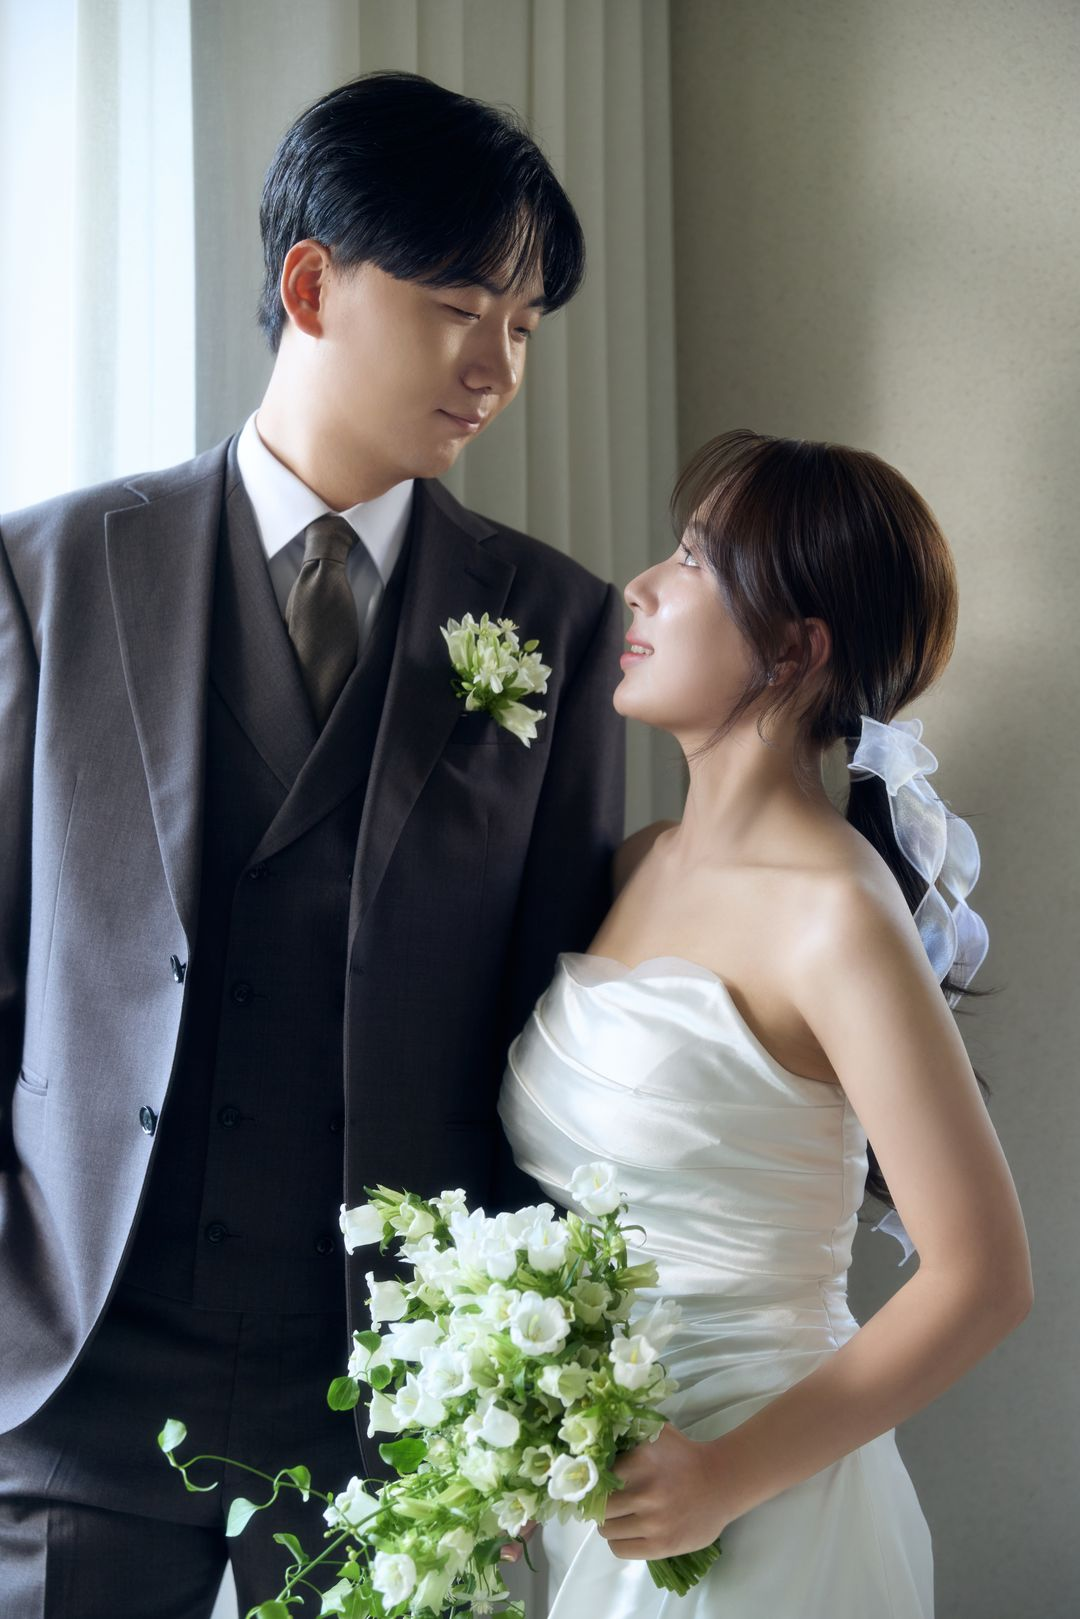
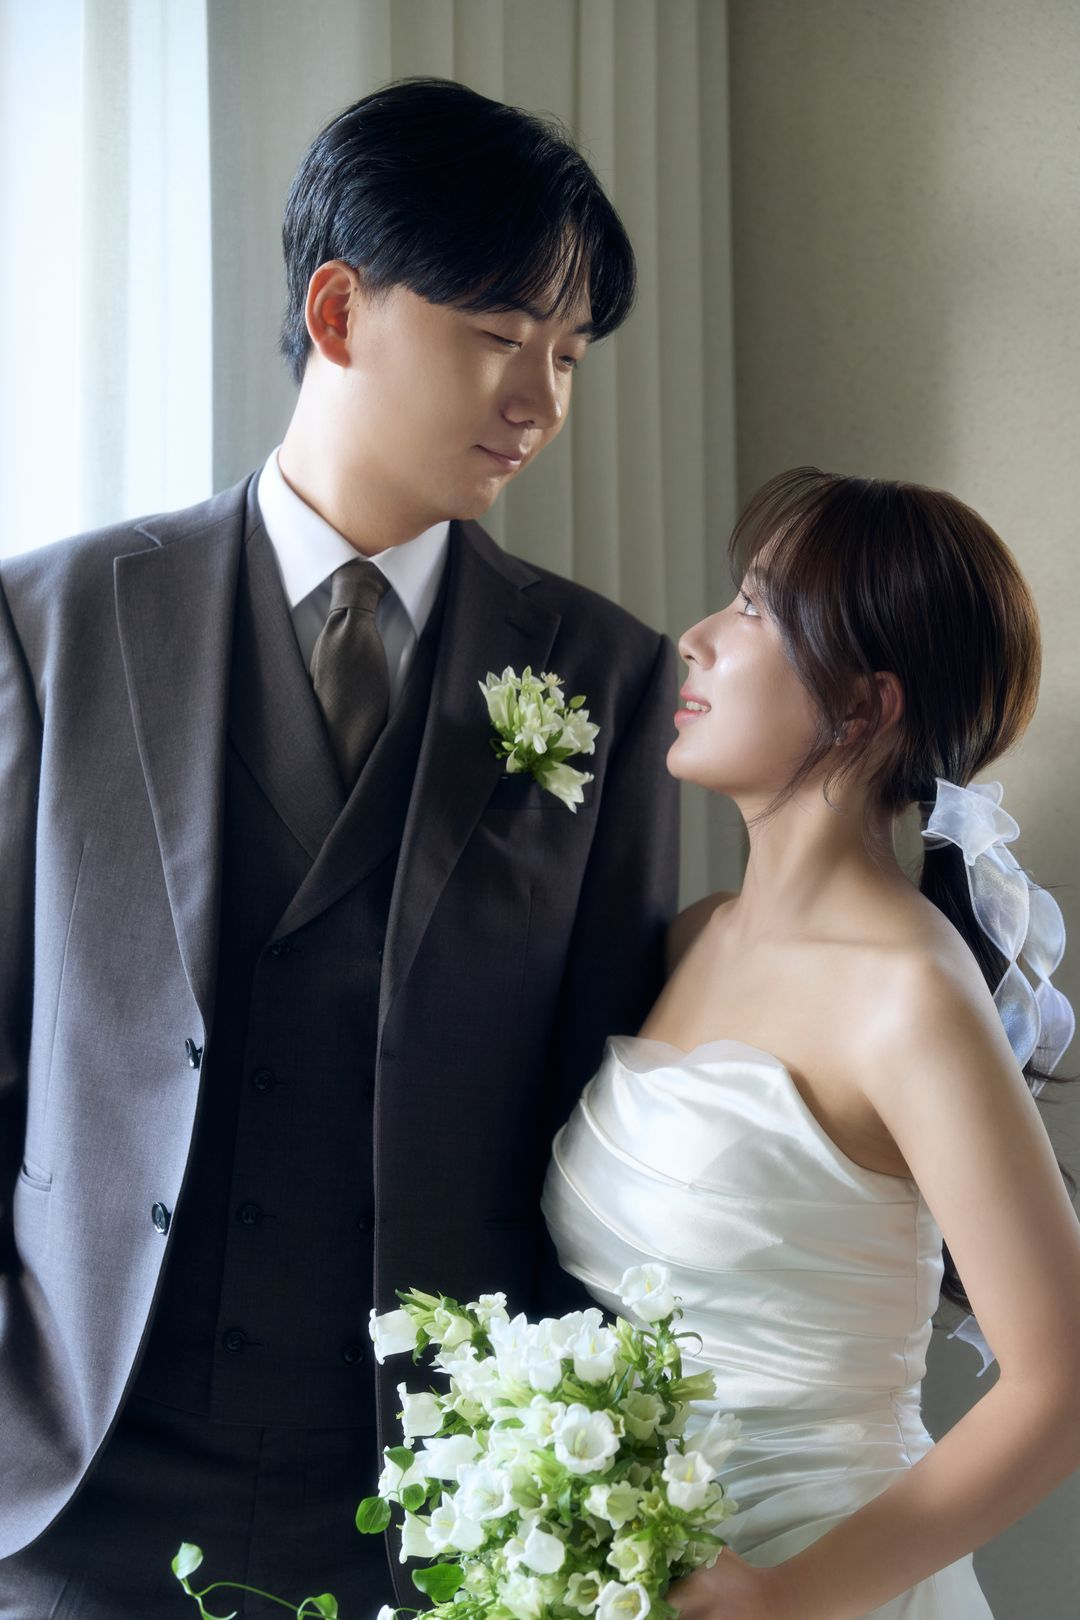
feat: 신랑/신부 프로필 사진 적용 + 갤러리 기존 첫 사진 삭제 + 9732 구도 보정
- 프로필: 9905(신랑)·10043(신부) 얼굴 정사각 크롭(원형 틀), 누르면 같은 원본 전체 사진
- 갤러리: 기존 첫 사진(gallery-2.jpg) 삭제
- gallery-9732: 오른쪽 8% 크롭으로 두 사람을 가운데로

diff --git a/assets/js/config.js b/assets/js/config.js
@@ -109,18 +109,18 @@ window.WEDDING = {
     alt: "메인 웨딩 사진",
     ratio: "3 / 4",
   },
-  groomPhoto: { src: "", alt: "신랑 프로필", ratio: "1 / 1", fullSrc: "", fullAlt: "신랑 전체 사진" },
-  bridePhoto: { src: "", alt: "신부 프로필", ratio: "1 / 1", fullSrc: "", fullAlt: "신부 전체 사진" },
+  // 프로필: 얼굴을 정사각으로 크롭(원형 틀에 맞춤), 누르면 같은 원본의 전체 사진(fullSrc)
+  groomPhoto: { src: "assets/images/profile-groom.jpg", alt: "신랑 프로필", ratio: "1 / 1", fullSrc: "assets/images/gallery-9905.jpg", fullAlt: "신랑 전체 사진" },
+  bridePhoto: { src: "assets/images/profile-bride.jpg", alt: "신부 프로필", ratio: "1 / 1", fullSrc: "assets/images/gallery-10043.jpg", fullAlt: "신부 전체 사진" },
 
   gallery: [
-    { src: "assets/images/gallery-2.jpg", alt: "웨딩 사진 1", ratio: "2 / 3" },
-    { src: "assets/images/gallery-9732.jpg", alt: "웨딩 사진 2", ratio: "2 / 3" },
-    { src: "assets/images/gallery-9905.jpg", alt: "웨딩 사진 3", ratio: "2 / 3" },
-    { src: "assets/images/gallery-10043.jpg", alt: "웨딩 사진 4", ratio: "2 / 3" },
-    { src: "assets/images/gallery-10833.jpg", alt: "웨딩 사진 5", ratio: "2 / 3" },
-    { src: "assets/images/gallery-11382.jpg", alt: "웨딩 사진 6", ratio: "2 / 3" },
-    { src: "assets/images/gallery-11636.jpg", alt: "웨딩 사진 7", ratio: "2 / 3" },
-    { src: "assets/images/gallery-11755.jpg", alt: "웨딩 사진 8", ratio: "2 / 3" },
+    { src: "assets/images/gallery-9732.jpg", alt: "웨딩 사진 1", ratio: "2 / 3" },
+    { src: "assets/images/gallery-9905.jpg", alt: "웨딩 사진 2", ratio: "2 / 3" },
+    { src: "assets/images/gallery-10043.jpg", alt: "웨딩 사진 3", ratio: "2 / 3" },
+    { src: "assets/images/gallery-10833.jpg", alt: "웨딩 사진 4", ratio: "2 / 3" },
+    { src: "assets/images/gallery-11382.jpg", alt: "웨딩 사진 5", ratio: "2 / 3" },
+    { src: "assets/images/gallery-11636.jpg", alt: "웨딩 사진 6", ratio: "2 / 3" },
+    { src: "assets/images/gallery-11755.jpg", alt: "웨딩 사진 7", ratio: "2 / 3" },
   ],
 
   /* ---- 예식 안내 사진 4칸(26/11/08/13시 문구가 각 사진 위에 겹쳐 표시됨) ---- */
